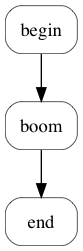
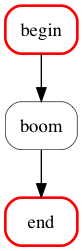
minimally tweak README so that critical attributes are meaningful wrt what README means to illustrate

Changed region(s): [[0.0482, 0.7809, 0.9639, 1.0], [0.0482, 0.0, 0.9639, 0.2231]]

diff --git a/sphinx/README.md b/sphinx/README.md
@@ -80,7 +80,7 @@ watch.print_elapsed('some')
 ```
 
     000.000  
-    000.504 some
+    000.501 some
 
 We can now write a simple coroutine for illustrating schedulers through small examples:
 
@@ -143,12 +143,12 @@ sa
 sa.run()
 ```
 
-    000.016 -> in_out(0.25)
-    000.016 -> in_out(0.1)
-    000.016 -> in_out(0.2)
-    000.117 <- in_out(0.1)
-    000.217 <- in_out(0.2)
-    000.267 <- in_out(0.25)
+    000.015 -> in_out(0.25)
+    000.015 -> in_out(0.1)
+    000.015 -> in_out(0.2)
+    000.116 <- in_out(0.1)
+    000.216 <- in_out(0.2)
+    000.265 <- in_out(0.25)
 
 
 
@@ -192,11 +192,11 @@ sa2.run()
 ```
 
     000.000 -> in_out(0.2)
-    000.000 -> in_out(0.25)
     000.000 -> in_out(0.1)
-    000.101 <- in_out(0.1)
-    000.204 <- in_out(0.2)
-    000.253 <- in_out(0.25)
+    000.000 -> in_out(0.25)
+    000.102 <- in_out(0.1)
+    000.203 <- in_out(0.2)
+    000.254 <- in_out(0.25)
 
 
 
@@ -253,10 +253,10 @@ sb.run()
 
     000.000 -> in_out(0.1)
     000.000 -> in_out(0.25)
-    000.105 <- in_out(0.1)
-    000.106 -> in_out(0.2)
-    000.256 <- in_out(0.25)
-    000.310 <- in_out(0.2)
+    000.101 <- in_out(0.1)
+    000.101 -> in_out(0.2)
+    000.251 <- in_out(0.25)
+    000.305 <- in_out(0.2)
 
 
 
@@ -287,12 +287,12 @@ watch.reset()
 sb2.run()
 ```
 
-    000.000 -> in_out(0.25)
     000.000 -> in_out(0.1)
+    000.000 -> in_out(0.25)
     000.103 <- in_out(0.1)
     000.103 -> in_out(0.2)
-    000.255 <- in_out(0.25)
-    000.306 <- in_out(0.2)
+    000.251 <- in_out(0.25)
+    000.304 <- in_out(0.2)
 
 
 
@@ -353,9 +353,9 @@ To see an overview of a scheduler, just use the `list()` method that will summar
 sb.list()
 ```
 
-    1   ☉ ☓   <Job `b1`> [[ -> 100.0]] 
-    2   ☉ ☓   <Job `Job[in_out (...)]`> [[ -> 250.0]] 
-    3   ☉ ☓   <Job `b2`> [[ -> 200.0]] requires={1}
+    1 ⚠ ☉ ☓   <Job `b1`> [[ -> 100.0]] 
+    2 ⚠ ☉ ☓   <Job `Job[in_out (...)]`> [[ -> 250.0]] 
+    3 ⚠ ☉ ☓   <Job `b2`> [[ -> 200.0]] requires={1}
 
 
 The textual representation displayed by `list()` shows all the jobs, with:
@@ -499,12 +499,12 @@ sc = Scheduler(c1, c2, c3, c4)
 sc.run()
 ```
 
-    BUS: 000.000 -> in_out(0.4)
     BUS: 000.000 -> in_out(0.2)
+    BUS: 000.000 -> in_out(0.4)
     BUS: 000.206 <- in_out(0.2)
-    BUS: 000.207 -> in_out(0.3)
-    BUS: 000.405 <- in_out(0.4)
-    BUS: 000.509 <- in_out(0.3)
+    BUS: 000.206 -> in_out(0.3)
+    BUS: 000.404 <- in_out(0.4)
+    BUS: 000.512 <- in_out(0.3)
 
 
 
@@ -521,10 +521,10 @@ Note that `run()` always terminates as soon as all the non-`forever` jobs are co
 sc.list()
 ```
 
-    1   ☉ ☓   <Job `c2`> [[ -> 4.0]] 
-    2   ☉ ☓   <Job `c1`> [[ -> 2.0]] 
-    3   ☉ ↺ ∞ <Job `monitor`> [not done] 
-    4   ☉ ☓   <Job `c3`> [[ -> 3.0]] requires={2}
+    1 ⚠ ☉ ☓   <Job `c1`> [[ -> 2.0]] 
+    2 ⚠ ☉ ↺ ∞ <Job `monitor`> [not done] 
+    3 ⚠ ☉ ☓   <Job `c2`> [[ -> 4.0]] 
+    4 ⚠ ☉ ☓   <Job `c3`> [[ -> 3.0]] requires={1}
 
 
 Forever jobs appear with a dotted border on a graphical representation:
@@ -577,9 +577,9 @@ sd.run()
 ```
 
     000.000: forever 0
-    000.106: forever 1
-    000.208: forever 2
-    01:28:10.543 SCHEDULER(None): PureScheduler.co_run: TIMEOUT occurred
+    000.101: forever 1
+    000.204: forever 2
+    10:24:52.481 SCHEDULER(None): PureScheduler.co_run: TIMEOUT occurred
 
 
 
@@ -599,7 +599,7 @@ j
 
 
 
-      ☉ ↺ ∞ <Job `Job[forever (...)]`> [not done] 
+    ⚠ ☉ ↺ ∞ <Job `Job[forever (...)]`> [not done] 
 
 
 
@@ -631,10 +631,10 @@ async def boom(n):
 ```python
 # by default everything is non critical
 e1 = Job(in_out(0.2), label='begin')
-e2 = Job(boom(0.2), label="boom")
+e2 = Job(boom(0.2), label="boom", critical=False)
 e3 = Job(in_out(0.3), label='end')
 
-se = Scheduler(Sequence(e1, e2, e3))
+se = Scheduler(Sequence(e1, e2, e3), critical=False)
 ```
 
 
@@ -646,9 +646,9 @@ se.run()
 ```
 
     000.000 -> in_out(0.2)
-    000.202 <- in_out(0.2)
-    000.406 -> in_out(0.3)
-    000.707 <- in_out(0.3)
+    000.201 <- in_out(0.2)
+    000.402 -> in_out(0.3)
+    000.706 <- in_out(0.3)
 
 
 
@@ -665,9 +665,9 @@ se.run()
 se.list()
 ```
 
-    1   ☉ ☓   <Job `begin`> [[ -> 200.0]] 
+    1 ⚠ ☉ ☓   <Job `begin`> [[ -> 200.0]] 
     2   ★ ☓   <Job `boom`> !! exception => Exception:boom after 0.2s!! requires={1}
-    3   ☉ ☓   <Job `end`> [[ -> 300.0]] requires={2}
+    3 ⚠ ☉ ☓   <Job `end`> [[ -> 300.0]] requires={2}
 
 
 Non-critical jobs and schedulers show up with a thin and black border:
@@ -692,7 +692,7 @@ f1 = Job(in_out(0.2), label="begin")
 f2 = Job(boom(0.2), label="boom", critical=True)
 f3 = Job(in_out(0.3), label="end")
 
-sf = Scheduler(Sequence(f1, f2, f3))
+sf = Scheduler(Sequence(f1, f2, f3), critical=False)
 ```
 
 
@@ -705,8 +705,8 @@ sf.run()
 ```
 
     000.000 -> in_out(0.2)
-    000.204 <- in_out(0.2)
-    01:28:11.796 SCHEDULER(None): Emergency exit upon exception in critical job
+    000.205 <- in_out(0.2)
+    10:24:53.701 SCHEDULER(None): Emergency exit upon exception in critical job
 
 
 
@@ -722,9 +722,9 @@ sf.run()
 sf.list()
 ```
 
-    1   ☉ ☓   <Job `begin`> [[ -> 200.0]] 
+    1 ⚠ ☉ ☓   <Job `begin`> [[ -> 200.0]] 
     2 ⚠ ★ ☓   <Job `boom`> !! CRIT. EXC. => Exception:boom after 0.2s!! requires={1}
-    3     ⚐   <Job `end`> [not done] requires={2}
+    3 ⚠   ⚐   <Job `end`> [not done] requires={2}
 
 
 Critical jobs and schedulers show up with a thick and red border:
@@ -771,14 +771,14 @@ s.run()
 print("total duration = {}s".format(watch.elapsed()))
 ```
 
-    000.500 3-th job
-    000.500 1-th job
-    000.500 8-th job
-    000.500 4-th job
-    000.500 6-th job
-    000.500 7-th job
-    000.500 5-th job
-    000.500 2-th job
+    000.502 6-th job
+    000.502 1-th job
+    000.502 8-th job
+    000.502 3-th job
+    000.502 5-th job
+    000.502 4-th job
+    000.502 2-th job
+    000.502 7-th job
     total duration = 001.003s
 
 
@@ -824,14 +824,14 @@ This nested structure is rendered by both `list()` and `graph()`:
 main_sched.list()
 ```
 
-    1     ⚐   <Job `main-start`> [not done] 
+    1 ⚠   ⚐   <Job `main-start`> [not done] 
     2 ⚠   ⚐   <Scheduler `critical nested`> [not done] requires={1} -> entries={3}
-    3     ⚐   > <Job `subj1`> [not done] 
-    4     ⚐   > <Job `subj3`> [not done] requires={3}
-    5     ⚐   > <Job `subj2`> [not done] requires={3}
-    6     ⚐   > <Job `subj4`> [not done] requires={4, 5}
+    3 ⚠   ⚐   > <Job `subj1`> [not done] 
+    4 ⚠   ⚐   > <Job `subj3`> [not done] requires={3}
+    5 ⚠   ⚐   > <Job `subj2`> [not done] requires={3}
+    6 ⚠   ⚐   > <Job `subj4`> [not done] requires={5, 4}
     2 --end-- < <Scheduler `critical nested`> exits={6}
-    7     ⚐   <Job `main-end`> [not done] requires={2}
+    7 ⚠   ⚐   <Job `main-end`> [not done] requires={2}
 
 
 When using a `Scheduler` to describe nested schedulers, `asynciojobs` will also produce a graphical output that properly exhibits the overall structure:
@@ -879,8 +879,8 @@ main_sched.run()
 
     main-start
     subj1
-    subj3
     subj2
+    subj3
     subj4
     main-end
 
@@ -970,9 +970,9 @@ Here's a simple example:
 ```python
 # and a simple scheduler with an initialization and 2 concurrent tasks
 s = Scheduler()
-j1 = Job(aprint("j1"), label="init", scheduler=s)
+j1 = Job(aprint("j1"), label="init", critical=False, scheduler=s)
 j2 = Job(aprint("j2"), label="critical job", critical=True, scheduler=s, required=j1)
-j3 = Job(aprint("j3"), label="forever job", forever=True, scheduler=s, required=j1)
+j3 = Job(aprint("j3"), label="forever job", critical=False, forever=True, scheduler=s, required=j1)
 s.graph()
 ```
 
